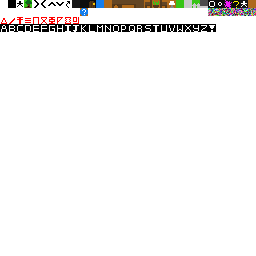
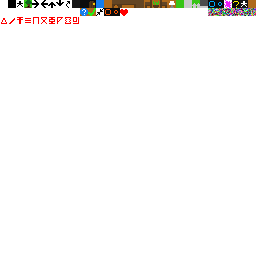
Version 1.1: rebalance difficulty: 11x11 -> 7x7, 300 sec -> 200 sec new overlay system, allowing neon markers to be placed anywhere better tutorial change early rooms game over screen portal changes color depending on dimension slightly change win screen

diff --git a/game.js b/game.js
@@ -32,7 +32,8 @@ var solids = [
 ];
 
 var anim = {
-    26: [[26, 27], 10]
+    26: [[26, 27], 10],
+    45: [[45, 46], 10]
 };
 
 var properties = {
@@ -41,11 +42,12 @@ var properties = {
     29: ["random"],
     30: ["goal"],
     31: ["glitch"],
-    42: ["help"]
+    42: ["help"],
+    43: ["back"]
 };
 
 var timerActive = false;
-var timeLeft = 300;
+var timeLeft = 200;
 var markersLeft = 9;
 var goalFound = false;
 
@@ -62,18 +64,18 @@ var roomPosY = 0;
 var otherRoomPosX = 0;
 var otherRoomPosY = 0;
 
-var randomRoomX = Math.floor(Math.random() * 11 - 5);
-var randomRoomY = Math.floor(Math.random() * 11 - 5);
-while((Math.abs(randomRoomX) + Math.abs(randomRoomY)) < 5) {
-    randomRoomX = Math.floor(Math.random() * 11 - 5);
-    randomRoomY = Math.floor(Math.random() * 11 - 5);
+var randomRoomX = Math.floor(Math.random() * 7 - 3);
+var randomRoomY = Math.floor(Math.random() * 7 - 3);
+while((Math.abs(randomRoomX) + Math.abs(randomRoomY)) < 3) {
+    randomRoomX = Math.floor(Math.random() * 7 - 3);
+    randomRoomY = Math.floor(Math.random() * 7 - 3);
 }
 
 var queuedKey;
 var tickValue = 0;
 var stillValue = 0;
 
-function drawSprite(spriteOffsetX, spriteOffsetY, x, y, rotation) {
+function drawSprite(spriteOffsetX, spriteOffsetY, x, y, rotation, overlays) {
     // take 8x8 sprite from tilemap with offset
     rotation = rotation || 0;
     context.save();
@@ -82,6 +84,11 @@ function drawSprite(spriteOffsetX, spriteOffsetY, x, y, rotation) {
     context.rotate(rotation * Math.PI / 180);
     context.drawImage(tilemap, spriteOffsetX * 8, spriteOffsetY * 8, 8, 8, -4, -4, 8, 8);
     context.restore();
+    if(overlays) {
+        overlays.forEach(item => {
+            context.drawImage(tilemap, item % 32 * 8, Math.floor(item / 32) * 8, 8, 8, x, y, 8, 8);
+        });
+    }
 };
 
 function drawMap(room) {
@@ -92,12 +99,12 @@ function drawMap(room) {
             tileBeingDrawn = room[row][column][0] || room[row][column];
             if(tileBeingDrawn !== -1) {
                 if(!(tileBeingDrawn in anim)) {
-                    drawSprite(tileBeingDrawn % 32, Math.floor(tileBeingDrawn / 32), parseInt(column) * 8, parseInt(row) * 8, room[row][column][1]);
+                    drawSprite(tileBeingDrawn % 32, Math.floor(tileBeingDrawn / 32), parseInt(column) * 8, parseInt(row) * 8, room[row][column][1], room[row][column][2]);
                 }
                 else {
                     var tileAnimation = anim[tileBeingDrawn][0];
                     var animTick = Math.floor(tickValue / anim[tileBeingDrawn][1]);
-                    drawSprite(tileAnimation[Math.floor(animTick % tileAnimation.length)] % 32, Math.floor(tileAnimation[animTick % tileAnimation.length] / 32), parseInt(column) * 8, parseInt(row) * 8, room[row][column][1]);
+                    drawSprite(tileAnimation[Math.floor(animTick % tileAnimation.length)] % 32, Math.floor(tileAnimation[animTick % tileAnimation.length] / 32), parseInt(column) * 8, parseInt(row) * 8, room[row][column][1], room[row][column][2]);
                 }
             }
         }
@@ -106,8 +113,15 @@ function drawMap(room) {
 
 function drawCredits() {
     clearInterval(tickInterval);
-    currentRoom = [[[1,0],[1,0],[1,0],[1,0],[1,0],[1,0],[1,0],[1,0],[1,0],[1,0],[1,0]],[[1,0],[115,0],[103,0],[96,0],[109,0],[106,0],[114,0],[1,0],[1,0],[1,0],[1,0]],[[1,0],[101,0],[110,0],[113,0],[1,0],[1,0],[1,0],[1,0],[1,0],[1,0],[1,0]],[[1,0],[111,0],[107,0],[96,0],[120,0],[104,0],[109,0],[102,0],[122,0],[1,0],[1,0]],[[1,0],[1,0],[1,0],[1,0],[1,0],[1,0],[1,0],[1,0],[1,0],[1,0],[1,0],[1,0]],[[1,0],[108,0],[96,0],[99,0],[100,0],[1,0],[1,0],[1,0],[1,0],[1,0],[1,0],[1,0]],[[1,0],[97,0],[120,0],[1,0],[1,0],[1,0],[1,0],[1,0],[1,0],[1,0],[1,0]],[[1,0],[109,0],[104,0],[106,0],[110,0],[1,0],[1,0],[1,0],[1,0],[1,0],[1,0],[1,0]],[[1,0],[1,0],[1,0],[1,0],[1,0],[1,0],[1,0],[1,0],[1,0],[1,0],[1,0],[1,0]],[[1,0],[97,0],[120,0],[100,0],[1,0],[1,0],[1,0],[1,0],[1,0],[1,0],[1,0],[1,0]],[[1,0],[1,0],[1,0],[1,0],[1,0],[1,0],[1,0],[1,0],[1,0],[1,0],[1,0]]];
+    currentRoom = [[[1,0],[1,0],[1,0],[1,0],[1,0],[1,0],[1,0],[1,0],[1,0],[1,0],[1,0]],[[1,0],[1,0,[115,115]],[1,0,[103,103,103,103]],[1,0,[96,96,96,96,96,96]],[1,0,[109,109]],[1,0,[106,106,106]],[1,0,[114]],[1,0],[1,0],[1,0],[1,0]],[[1,0],[1,0,[101]],[1,0,[110,110]],[1,0,[113]],[1,0],[1,0],[1,0],[1,0],[1,0],[1,0],[1,0]],[[1,0],[1,0,[111,111]],[1,0,[107,107]],[1,0,[96,96]],[1,0,[120]],[1,0,[104,104]],[1,0,[109,109]],[1,0,[102,102,102]],[1,0,[122,122,122,122]],[1,0],[1,0]],[[1,0],[1,0],[1,0],[1,0],[1,0],[1,0],[1,0],[1,0],[1,0],[1,0],[1,0],[1,0]],[[1,0],[1,0,[108]],[1,0,[96]],[1,0,[99,99,99]],[1,0,[100,100,100,100]],[1,0],[1,0],[1,0],[1,0],[1,0],[1,0],[1,0]],[[1,0],[1,0,[97,97]],[1,0,[120,120]],[1,0],[1,0],[1,0],[1,0],[1,0],[1,0],[1,0],[1,0]],[[1,0],[1,0,[109]],[1,0,[104,104,104]],[1,0,[106,106]],[1,0,[110,110]],[1,0],[1,0],[1,0],[1,0],[1,0],[1,0],[1,0]],[[1,0],[1,0],[1,0],[1,0],[1,0],[1,0],[1,0],[1,0],[1,0],[1,0],[1,0],[1,0]],[[1,0],[1,0,[47,47,47,47,47,47,47,47,47,47,47]],[1,0],[1,0],[1,0],[1,0],[1,0],[1,0],[1,0],[1,0],[1,0],[1,0]],[[1,0],[1,0],[1,0],[1,0],[1,0],[1,0],[1,0],[1,0],[1,0],[1,0],[1,0]]];
     drawMap(currentRoom);
+}
+
+function drawGameover() {
+    clearInterval(tickInterval);
+    currentRoom = [[[1,0],[1,0],[1,0],[1,0],[1,0],[1,0],[1,0],[1,0],[1,0],[1,0],[1,0]],[[1,0],[1,0],[1,0],[1,0],[1,0],[1,0],[1,0],[1,0],[1,0],[1,0],[1,0],[1,0]],[[1,0],[1,0],[1,0],[1,0],[1,0],[1,0],[1,0],[1,0],[1,0],[1,0],[1,0],[1,0]],[[1,0],[1,0],[1,0],[1,0],[1,0],[1,0],[1,0],[1,0],[1,0],[1,0],[1,0]],[[1,0],[1,0],[1,0],[1,0],[1,0],[1,0],[1,0],[1,0],[1,0],[1,0],[1,0]],[[1,0],[1,0,[102,102]],[1,0,[96,96]],[1,0,[108,108,108]],[1,0,[100,100]],[1,0],[1,0,[110]],[1,0,[117]],[1,0,[100]],[1,0,[113]],[1,0]],[[1,0],[1,0],[1,0],[1,0],[1,0],[1,0],[1,0],[1,0],[1,0],[1,0],[1,0]],[[1,0],[1,0],[1,0],[1,0],[1,0],[1,0],[1,0],[1,0],[1,0],[1,0],[1,0]],[[1,0],[1,0],[1,0],[1,0],[1,0],[1,0],[1,0],[1,0],[1,0],[1,0],[1,0]],[[1,0],[1,0],[1,0],[1,0],[1,0],[1,0],[1,0],[1,0],[1,0],[1,0],[1,0],[1,0]],[[1,0],[1,0],[1,0],[1,0],[1,0],[1,0],[1,0],[1,0],[1,0],[1,0],[1,0],[1,0]]];
+    drawMap(currentRoom);
+    setTimeout(() => location.reload(), 2500);
 }
 
 function tileActions() {
@@ -119,22 +133,22 @@ function tileActions() {
                 timerActive = true;
                 if((row == y - 1 || row == y || row == y + 1) && (column == x - 1 || column == x || column == x + 1) || editor || goalFound) {
                     let tileBeingDrawn = currentRoom[row][column][0];
-                    drawSprite(tileBeingDrawn % 32, Math.floor(tileBeingDrawn / 32), parseInt(column) * 8, parseInt(row) * 8, currentRoom[row][column][1]);
+                    drawSprite(tileBeingDrawn % 32, Math.floor(tileBeingDrawn / 32), parseInt(column) * 8, parseInt(row) * 8, currentRoom[row][column][1], currentRoom[row][column][2]);
                 }
                 else {
                     let tileBeingDrawn = currentRoom[row][column][0];
-                    drawSprite(tileBeingDrawn % 32 + 1, Math.floor(tileBeingDrawn / 32), parseInt(column) * 8, parseInt(row) * 8, currentRoom[row][column][1]);
+                    drawSprite(tileBeingDrawn % 32 + 1, Math.floor(tileBeingDrawn / 32), parseInt(column) * 8, parseInt(row) * 8, currentRoom[row][column][1], currentRoom[row][column][2]);
                 }
             }
             if(property.includes("reset")) {
-                timeLeft = 300;
+                timeLeft = 200;
                 timerActive = false;
             }
             if(property.includes("random")) {
                 timerActive = true;
                 if(!editor) {
                     let tileBeingDrawn = 9;
-                    drawSprite(tileBeingDrawn % 32 + 1, Math.floor(tileBeingDrawn / 32), parseInt(column) * 8, parseInt(row) * 8, currentRoom[row][column][1]);
+                    drawSprite(tileBeingDrawn % 32 + 1, Math.floor(tileBeingDrawn / 32), parseInt(column) * 8, parseInt(row) * 8, currentRoom[row][column][1], currentRoom[row][column][2]);
                 }
                 if(!editor) {
                     var isSolid = Math.random() >= 0.5;
@@ -146,8 +160,8 @@ function tileActions() {
                     goalFound = true;
                     currentRoom[row][column] = 9;
                     rooms[[randomRoomX, randomRoomY]] = currentRoom;
-                    roomPosX = Math.floor(Math.random() * 11 - 5);
-                    roomPosY = Math.floor(Math.random() * 11 - 5);
+                    roomPosX = Math.floor(Math.random() * 7 - 3);
+                    roomPosY = Math.floor(Math.random() * 7 - 3);
                     currentRoom = rooms[[roomPosX, roomPosY]];
                     if(!currentRoom) {
                         currentRoom = $.extend(true, [], randomRooms[Math.floor(Math.random() * randomRooms.length)]);
@@ -169,8 +183,16 @@ function tileActions() {
             }
             if(property.includes("help")) {
                 if(row == y && column == x) {
-                    currentRoom[row][column] = 13;
-                    alert("Use arrow keys to move and space to place or pick up a neon marker while in the maze. To win, save your friend and escape.");
+                    roomPosY = roomPosY + 3;
+                    currentRoom = rooms[[roomPosX, roomPosY]];
+                    return;
+                }
+            }
+            if(property.includes("back")) {
+                if(row == y && column == x) {
+                    roomPosY = roomPosY - 1;
+                    currentRoom = rooms[[roomPosX, roomPosY]];
+                    return;
                 }
             }
         }
@@ -215,7 +237,7 @@ function tick() {
             if(!(solids.includes(currentRoom[y][x - 1][0]))) {
                 x -= 1;
             }
-            if((currentRoom[y][x][0]) == 26) {
+            if((currentRoom[y][x][0]) == 26 || (currentRoom[y][x][0]) == 45) {
                 changeDimension();
             }
         }
@@ -228,7 +250,7 @@ function tick() {
             if(!(solids.includes(currentRoom[y - 1][x][0]))) {
                 y -= 1;
             }
-            if((currentRoom[y][x][0]) == 26) {
+            if((currentRoom[y][x][0]) == 26 || (currentRoom[y][x][0]) == 45) {
                 changeDimension();
             }
         }
@@ -241,7 +263,7 @@ function tick() {
             if(!(solids.includes(currentRoom[y][x + 1][0]))) {
                 x += 1;
             }
-            if((currentRoom[y][x][0]) == 26) {
+            if((currentRoom[y][x][0]) == 26 || (currentRoom[y][x][0]) == 45) {
                 changeDimension();
             }
         }
@@ -254,7 +276,7 @@ function tick() {
             if(!(solids.includes(currentRoom[y + 1][x][0]))) {
                 y += 1;
             }
-            if((currentRoom[y][x][0]) == 26) {
+            if((currentRoom[y][x][0]) == 26 || (currentRoom[y][x][0]) == 45) {
                 changeDimension();
             }
         }
@@ -263,13 +285,13 @@ function tick() {
         }
     }
     if(key == " ") {
-        if(markersLeft > 0 && currentRoom[y][x][0] == 9) {
+        if(markersLeft > 0 && !currentRoom[y][x][2]) {
             markersLeft--;
-            currentRoom[y][x][0] = 28;
+            currentRoom[y][x][2] = [28];
         }
-        else if (currentRoom[y][x][0] == 28) {
+        else if (currentRoom[y][x][2] == 28) {
             markersLeft++;
-            currentRoom[y][x][0] = 9;
+            currentRoom[y][x][2].pop();
         }
     }
     if(key) {
@@ -315,16 +337,16 @@ function tick() {
         }
     }
     if(dimension == 1) {
-        if(roomPosX >= 5) {
+        if(roomPosX >= 3) {
             currentRoom[5][10][0] = 10;
         }
-        if(roomPosX <= -5) {
+        if(roomPosX <= -3) {
             currentRoom[5][0][0] = 10;
         }
-        if(roomPosY >= 5) {
+        if(roomPosY >= 3) {
             currentRoom[10][5][0] = 10;
         }
-        if(roomPosY <= -5) {
+        if(roomPosY <= -3) {
             currentRoom[0][5][0] = 10;
         }
     }
@@ -333,13 +355,11 @@ function tick() {
     drawSprite(2, 0, x * 8, y * 8);
 
     if(timerActive) {
-        if(!(tickValue % (goalFound? 15 : 20))) {
+        if(!(tickValue % (goalFound? 10 : 20))) {
             timeLeft -= 1;
         }
         if(timeLeft < 0 && !editor) {
-            location.reload();
-            clearInterval(tickInterval);
-            timeLeft = 0;
+            drawGameover();
         }
         var timeAsString = timeLeft.toString();
         for(var i = timeAsString.length; i > 0; i--) {
@@ -352,6 +372,7 @@ function tick() {
     }
 
     drawSprite(markersLeft, 1, 0, 10 * 8);
+    drawSprite(28, 0, 8, 10 * 8);
 
     queuedKey = "";
 
